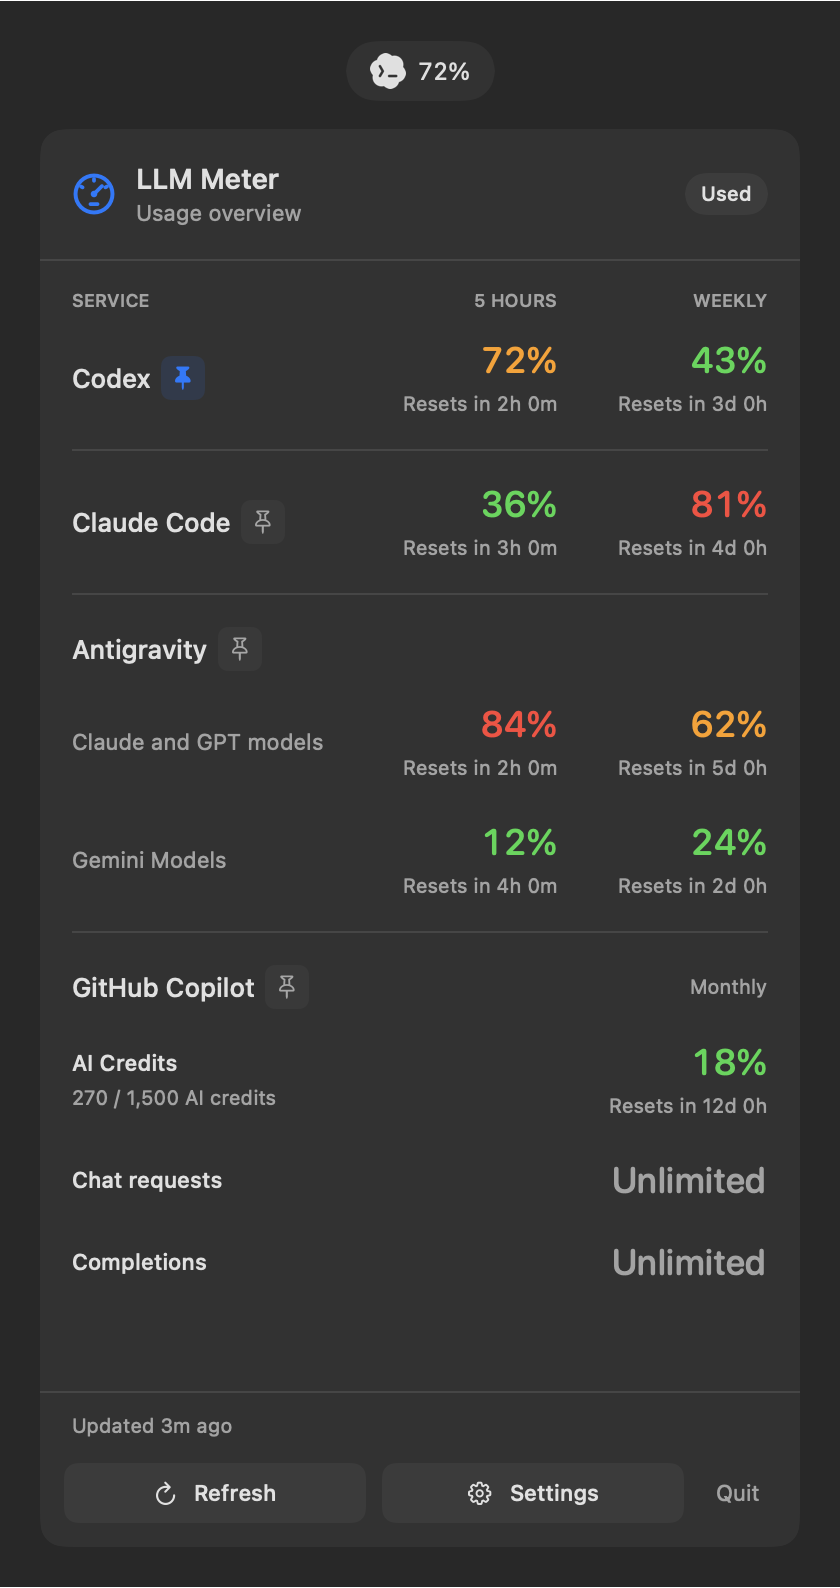
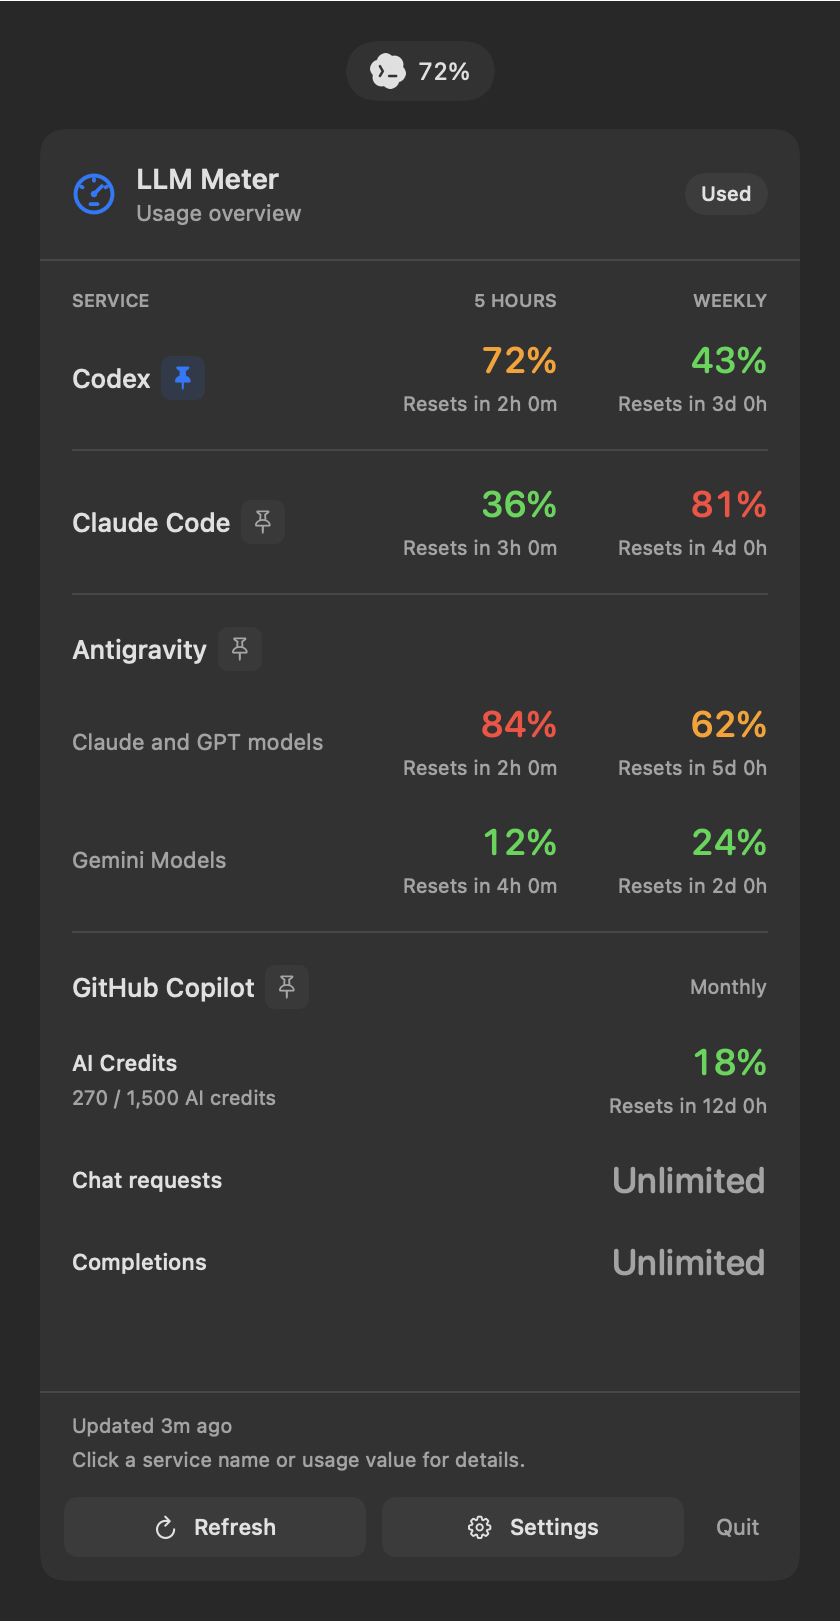
fix: replace oversized usage tooltips with scrollable details

diff --git a/Sources/LLMMeterApp/Views.swift b/Sources/LLMMeterApp/Views.swift
@@ -7,8 +7,20 @@ struct UsagePanel: View {
   @ObservedObject var store: AppStore
   var maximumContentHeight: () -> CGFloat
   var openSettings: () -> Void
+  @State private var detailProvider: ProviderID?
 
   var body: some View {
+    if let detailProvider {
+      UsageDetailsView(
+        store: store, provider: detailProvider,
+        maximumContentHeight: maximumContentHeight
+      ) { self.detailProvider = nil }
+    } else {
+      overview
+    }
+  }
+
+  private var overview: some View {
     VStack(spacing: 0) {
       HStack(spacing: 10) {
         Image(nsImage: MenuBarController.icon(size: 22))
@@ -69,6 +81,10 @@ struct UsagePanel: View {
         .frame(maxWidth: .infinity, alignment: .leading)
         .padding(.horizontal, 16).padding(.top, 10)
         .help(store.panelUpdateDetails)
+      Text(L10n.text("Click a service name or usage value for details."))
+        .font(.system(size: 10)).foregroundStyle(.secondary)
+        .frame(maxWidth: .infinity, alignment: .leading)
+        .padding(.horizontal, 16).padding(.top, 4)
       HStack(spacing: 8) {
         action(
           store.refreshing ? L10n.text("Refreshing…") : L10n.text("Refresh"),
@@ -130,7 +146,7 @@ struct UsagePanel: View {
               .frame(maxWidth: .infinity, alignment: .leading)
             window(.antigravity, period: .fiveHours, scope: scope)
             window(.antigravity, period: .weekly, scope: scope)
-          }.padding(.vertical, 10).help(store.tooltip(.antigravity))
+          }.padding(.vertical, 10).help(store.hoverSummary(.antigravity))
         }
       } else {
         ForEach(store.antigravityModels) { metric in
@@ -143,13 +159,15 @@ struct UsagePanel: View {
             }
             Spacer()
             VStack(alignment: .trailing, spacing: 5) {
-              value(store.modelLabel(metric), tone: store.tone(.antigravity, metric: metric))
+              value(
+                store.modelLabel(metric), tone: store.tone(.antigravity, metric: metric),
+                provider: .antigravity)
               Text(UsageDisplay.resetCountdown(metric.resetAt, now: store.now)).font(
                 .system(size: 10)
               )
               .foregroundStyle(.secondary)
             }
-          }.padding(.vertical, 10).help(store.tooltip(.antigravity))
+          }.padding(.vertical, 10).help(store.hoverSummary(.antigravity))
         }
       }
     }
@@ -177,7 +195,7 @@ struct UsagePanel: View {
           VStack(alignment: .trailing, spacing: 5) {
             value(
               store.metricLabel(.copilot, metric: metric),
-              tone: store.tone(.copilot, metric: metric))
+              tone: store.tone(.copilot, metric: metric), provider: .copilot)
             if !metric.unlimited {
               Text(UsageDisplay.resetCountdown(metric.resetAt, now: store.now)).font(
                 .system(size: 10)
@@ -185,7 +203,7 @@ struct UsagePanel: View {
               .foregroundStyle(.secondary)
             }
           }
-        }.padding(.vertical, 10).help(store.tooltip(.copilot))
+        }.padding(.vertical, 10).help(store.hoverSummary(.copilot))
       }
     }
   }
@@ -193,8 +211,13 @@ struct UsagePanel: View {
   private func providerHeading(_ id: ProviderID) -> some View {
     let selected = store.settings.showUsage && store.settings.selectedProvider == id
     return HStack(spacing: 5) {
-      Text(id.name).font(.system(size: 13, weight: .medium)).fixedSize()
-        .help(store.tooltip(id))
+      Button {
+        detailProvider = id
+      } label: {
+        Text(id.name).font(.system(size: 13, weight: .medium)).fixedSize()
+      }.buttonStyle(.plain)
+        .help(store.hoverSummary(id))
+        .accessibilityLabel(L10n.format("View %@ details", id.name))
       Button {
         store.showProviderInMenuBar(id)
       } label: {
@@ -215,9 +238,15 @@ struct UsagePanel: View {
     }
   }
 
-  private func value(_ label: String, tone: UsageTone) -> some View {
-    Text(label).font(.system(size: 18, weight: .medium, design: .rounded)).monospacedDigit()
-      .foregroundStyle(usageColor(tone))
+  private func value(_ label: String, tone: UsageTone, provider: ProviderID) -> some View {
+    Button {
+      detailProvider = provider
+    } label: {
+      Text(label).font(.system(size: 18, weight: .medium, design: .rounded)).monospacedDigit()
+        .foregroundStyle(usageColor(tone))
+    }.buttonStyle(.plain).help(L10n.text("Click for full details"))
+      .accessibilityLabel(L10n.format("View %@ details", provider.name))
+      .accessibilityValue(label)
   }
 
   private func usageColor(_ tone: UsageTone) -> Color {
@@ -233,12 +262,12 @@ struct UsagePanel: View {
     VStack(alignment: .trailing, spacing: 5) {
       value(
         store.label(id, period: period, scope: scope),
-        tone: store.tone(id, metric: store.metric(id, period: period, scope: scope)))
+        tone: store.tone(id, metric: store.metric(id, period: period, scope: scope)), provider: id)
       Text(store.resetLabel(id, period: period, scope: scope)).font(.system(size: 10))
         .monospacedDigit().foregroundStyle(.secondary)
     }.frame(width: 105, alignment: .trailing)
-      .help(store.tooltip(id))
-      .accessibilityElement(children: .ignore)
+      .help(store.hoverSummary(id))
+      .accessibilityElement(children: .contain)
       .accessibilityLabel(
         "\(id.name), \(period == .fiveHours ? L10n.text("5 hours") : L10n.text("Weekly")), \(store.label(id, period: period, scope: scope)), \(store.resetLabel(id, period: period, scope: scope))"
       )
@@ -249,6 +278,44 @@ struct UsagePanel: View {
       Label(text, systemImage: symbol).font(.system(size: 11, weight: .medium))
         .frame(maxWidth: .infinity).padding(.vertical, 8).contentShape(Rectangle())
     }.buttonStyle(PanelActionStyle())
+  }
+}
+
+/// Full details stay inside the screen-positioned popover, with wrapping and scrolling.
+struct UsageDetailsView: View {
+  @ObservedObject var store: AppStore
+  let provider: ProviderID
+  var maximumContentHeight: () -> CGFloat
+  var back: () -> Void
+
+  var body: some View {
+    VStack(spacing: 0) {
+      HStack(spacing: 10) {
+        Button(action: back) {
+          Label(L10n.text("Back"), systemImage: "chevron.left")
+        }.buttonStyle(.plain)
+        Spacer()
+        VStack(alignment: .trailing, spacing: 3) {
+          Text(provider.name).font(.headline)
+          Text(L10n.text("Usage details")).font(.caption).foregroundStyle(.secondary)
+        }
+      }.padding(16)
+      Divider()
+      ScrollView {
+        Text(store.detailsText(provider)).font(.system(size: 12))
+          .textSelection(.enabled).fixedSize(horizontal: false, vertical: true)
+          .frame(maxWidth: .infinity, alignment: .leading).padding(16)
+      }.frame(height: min(520, maximumContentHeight()))
+      Divider()
+      HStack {
+        Text(store.updateLabel(provider)).font(.caption).foregroundStyle(.secondary)
+        Spacer()
+        Button(L10n.text("Refresh")) { store.refresh(provider) }
+          .disabled(
+            store.states[provider]?.refreshing == true
+              || store.settings.services.first(where: { $0.provider == provider })?.enabled != true)
+      }.padding(12)
+    }.frame(width: 380)
   }
 }
 
@@ -351,7 +418,7 @@ struct SettingsView: View {
                   store.editService(service.provider) { $0.sourcePath = "" }
                 }
               }
-              Text(store.tooltip(service.provider)).font(.caption).textSelection(.enabled)
+              Text(store.detailsText(service.provider)).font(.caption).textSelection(.enabled)
               Divider()
             }
           }

diff --git a/Tests/LLMMeterAppTests/UsageDetailsTests.swift b/Tests/LLMMeterAppTests/UsageDetailsTests.swift
@@ -1,0 +1,53 @@
+import AppKit
+import Foundation
+import LLMMeterCore
+import SwiftUI
+import Testing
+
+@testable import LLMMeterApp
+
+@Test @MainActor func longDetailsStayBoundedAndCanScrollToTheLastMetric() async throws {
+  let directory = FileManager.default.temporaryDirectory.appendingPathComponent(UUID().uuidString)
+  defer { try? FileManager.default.removeItem(at: directory) }
+  let now = Date()
+  let metrics = (0..<60).map { index in
+    UsageMetric(
+      id: "model-\(index)", name: "Fixture model \(index)", period: .other,
+      scope: index == 0 ? "pool:Fixture group" : nil,
+      usedPercent: 42, resetAt: now.addingTimeInterval(1800), readAt: now)
+  }
+  let snapshot = UsageSnapshot(
+    provider: .antigravity, accountID: "fixture", accountLabel: "Demo account",
+    metrics: metrics, readAt: now)
+  let store = AppStore.screenshotPreview(
+    storage: LocalStorage(directory: directory), snapshots: [snapshot], now: now)
+  #expect(store.detailsText(.antigravity).contains("Fixture model 59"))
+  #expect(store.detailsText(.antigravity).contains("Fixture group"))
+  #expect(!store.hoverSummary(.antigravity).contains("Fixture model"))
+  #expect(store.hoverSummary(.antigravity).split(separator: "\n").count <= 3)
+  _ = NSApplication.shared
+  let host = NSHostingView(
+    rootView: UsageDetailsView(
+      store: store, provider: .antigravity,
+      maximumContentHeight: { 260 }, back: {}
+    ).environment(\.colorScheme, .light))
+  let size = host.fittingSize
+  #expect(size.width == 380)
+  #expect(size.height < 400)
+  let window = NSWindow(
+    contentRect: NSRect(origin: .zero, size: size), styleMask: .borderless,
+    backing: .buffered, defer: false)
+  window.contentView = host
+  window.orderFront(nil)
+  defer { window.orderOut(nil) }
+  try await Task.sleep(for: .milliseconds(100))
+  host.layoutSubtreeIfNeeded()
+  func scrollViews(_ view: NSView) -> [NSScrollView] {
+    (view as? NSScrollView).map { [$0] } ?? view.subviews.flatMap(scrollViews)
+  }
+  let scroll = try #require(scrollViews(host).first)
+  let document = try #require(scroll.documentView)
+  #expect(document.bounds.height > scroll.contentView.bounds.height)
+  document.scroll(NSPoint(x: 0, y: document.bounds.maxY))
+  #expect(document.visibleRect.maxY >= document.bounds.maxY - 1)
+}

diff --git a/Sources/LLMMeterApp/main.swift b/Sources/LLMMeterApp/main.swift
@@ -17,7 +17,7 @@ final class MenuBarController: NSObject {
     item.button?.target = self
     item.button?.action = #selector(toggle)
     popover.behavior = .transient
-    popover.contentViewController = NSHostingController(
+    let hosting = NSHostingController(
       rootView: UsagePanel(
         store: store,
         maximumContentHeight: { [weak self] in
@@ -25,9 +25,11 @@ final class MenuBarController: NSObject {
             self?.item.button?.window?.screen?.visibleFrame.height
             ?? NSScreen.main?.visibleFrame.height ?? 900
           // Reserve space for the header, footer, and popover margins.
-          return max(160, min(700, screenHeight - 180))
+          return max(160, min(700, screenHeight - 200))
         }
       ) { [weak self] in self?.showSettings() })
+    hosting.sizingOptions.insert(.preferredContentSize)
+    popover.contentViewController = hosting
     store.objectWillChange.sink { [weak self] in
       Task { @MainActor in self?.render() }
     }.store(in: &subscriptions)
@@ -41,7 +43,7 @@ final class MenuBarController: NSObject {
     item.button?.font = .monospacedDigitSystemFont(ofSize: 12, weight: .regular)
     item.button?.toolTip =
       store.settings.showUsage
-      ? store.tooltip(store.settings.selectedProvider)
+      ? store.menuBarLabel + "\n" + L10n.text("Click to view usage")
       : L10n.text("LLM Meter · Click to view usage")
     item.button?.setAccessibilityLabel(store.settings.showUsage ? store.menuBarLabel : "LLM Meter")
   }
@@ -184,7 +186,8 @@ if let index = arguments.firstIndex(of: "--export-screenshot"),
   arguments.indices.contains(index + 1)
 {
   try ScreenshotExporter.export(
-    to: URL(fileURLWithPath: arguments[index + 1]), dark: arguments.contains("--dark"))
+    to: URL(fileURLWithPath: arguments[index + 1]), dark: arguments.contains("--dark"),
+    details: arguments.contains("--details"))
 } else if arguments.contains("--diagnose") {
   Task {
     let provider = ProviderRegistry()

diff --git a/Sources/LLMMeterApp/AppStore.swift b/Sources/LLMMeterApp/AppStore.swift
@@ -337,7 +337,13 @@ final class AppStore: ObservableObject {
   var menuBarLabel: String {
     settings.showUsage ? "\(settings.selectedProvider.name) \(menuBarValue)" : "LLM Meter"
   }
-  func tooltip(_ id: ProviderID) -> String {
+  func hoverSummary(_ id: ProviderID) -> String {
+    [
+      id.name, serviceStatusLabel(id) ?? updateLabel(id),
+      L10n.text("Click for full details"),
+    ].joined(separator: "\n")
+  }
+  func detailsText(_ id: ProviderID) -> String {
     guard let state = states[id] else { return L10n.text("Not read yet") }
     var lines = [id.name]
     if settings.services.first(where: { $0.provider == id })?.enabled == false {
@@ -352,13 +358,18 @@ final class AppStore: ObservableObject {
       )
       if let plan = snapshot.plan { lines.append(L10n.format("Plan: %@", plan)) }
       for metric in snapshot.metrics {
+        var name = L10n.text(metric.name)
+        if let scope = metric.scope, scope.hasPrefix("pool:") {
+          let group = String(scope.dropFirst(5))
+          if !metric.name.hasPrefix(group) { name = "\(group) · \(name)" }
+        }
         let value =
           metric.percent(remaining: settings.showRemaining).map { String(format: "%.1f%%", $0) }
           ?? L10n.text("Unknown")
         lines.append(
           metric.unlimited
-            ? "\(L10n.text(metric.name)): \(L10n.text("Unlimited"))"
-            : "\(L10n.text(metric.name)): \(value) \(settings.showRemaining ? L10n.text("remaining") : L10n.text("used"))"
+            ? "\(name): \(L10n.text("Unlimited"))"
+            : "\(name): \(value) \(settings.showRemaining ? L10n.text("remaining") : L10n.text("used"))"
         )
         if metric.unit != nil { lines.append(countLabel(metric)) }
         if let reset = metric.resetAt {

diff --git a/Sources/LLMMeterApp/ScreenshotExporter.swift b/Sources/LLMMeterApp/ScreenshotExporter.swift
@@ -4,7 +4,7 @@ import SwiftUI
 
 @MainActor
 enum ScreenshotExporter {
-  static func export(to output: URL, dark: Bool = false) throws {
+  static func export(to output: URL, dark: Bool = false, details: Bool = false) throws {
     // Render the actual native view with fictional data and isolated storage.
     // Do not start scheduling, query providers, or read the user's settings.
     let directory = FileManager.default.temporaryDirectory.appendingPathComponent(UUID().uuidString)
@@ -75,8 +75,15 @@ enum ScreenshotExporter {
           Text(store.menuBarValue).font(.system(size: 12)).monospacedDigit()
         }.padding(.horizontal, 12).padding(.vertical, 6)
           .background(Color(nsColor: .windowBackgroundColor), in: Capsule())
-        UsagePanel(store: store, maximumContentHeight: { 700 }, openSettings: {})
-          .background(Color(nsColor: .windowBackgroundColor))
+        Group {
+          if details {
+            UsageDetailsView(
+              store: store, provider: .antigravity,
+              maximumContentHeight: { 520 }, back: {})
+          } else {
+            UsagePanel(store: store, maximumContentHeight: { 700 }, openSettings: {})
+          }
+        }.background(Color(nsColor: .windowBackgroundColor))
           .clipShape(RoundedRectangle(cornerRadius: 12))
       }.padding(20).background(Color(nsColor: .underPageBackgroundColor))
         .environment(\.colorScheme, dark ? .dark : .light))

diff --git a/Sources/LLMMeterCore/Localization.swift b/Sources/LLMMeterCore/Localization.swift
@@ -252,6 +252,12 @@ public enum L10n {
     "Could not save %@. Check folder permissions.": "无法保存 %@。请检查文件夹权限。",
     "The configured %@ executable is unavailable.": "配置的 %@ 可执行文件不可用。",
     "%@ was not found. Choose its executable in Settings.": "未找到 %@。请在设置中选择其可执行文件。",
+    "Click for full details": "点击查看完整详情",
+    "Click a service name or usage value for details.": "点击服务名称或用量查看详情。",
+    "View %@ details": "查看 %@ 详情",
+    "Back": "返回",
+    "Usage details": "用量详情",
+    "Click to view usage": "点击查看用量",
   ]
 }
 

diff --git a/docs/development.md b/docs/development.md
@@ -138,3 +138,22 @@ Run `make screenshots` to rebuild the light and dark previews in `docs/images/`.
 `ci.yml` runs strict formatting and core tests. `package.yml` builds and verifies the arm64 app on pull requests and main, and can be dispatched manually. A push to `main` also publishes a GitHub Release whose tag is the build date plus the commit's short revision in `Asia/Shanghai` time, such as `v2026.10.07-3e5e7de`; the app's `CFBundleShortVersionString` carries the same value and `CFBundleVersion` the numeric stamp. Releases attach the ZIP and its SHA-256 checksum, and a re-run of the same commit replaces those assets rather than duplicating the release. Packaging no longer triggers on `v*` tags. No credential secrets are required. Before public distribution, configure Developer ID signing and notarization, including stapling and Gatekeeper validation.
 
 The minimum deployment target is macOS 13; execution on an actual macOS 13 machine and Developer ID signing/notarization remain release checks. Automatic refresh currently uses a timer; immediate network-recovery notifications are a follow-up improvement.
+
+
+### Full service details
+
+Long quota listings must not be put in AppKit tooltips, which cannot scroll and can
+extend offscreen. `hoverSummary` contains only the service, status, and navigation
+hint. Clicking a service heading or usage value switches the existing popover to
+`UsageDetailsView`: 380 points wide, with a wrapping/selectable scroll view capped at
+520 points or the screen-derived content limit, plus Back and targeted Refresh.
+A footer hint and short hover hint expose this action; VoiceOver buttons name the
+service and retain the percentage as their value. The hosting controller explicitly
+tracks preferred content size when changing views. The view observes AppStore so
+readings continue to update while open. Settings retain full text in their existing
+scroll view. Menu bar hover text also stays short.
+
+The native regression uses 60 fictional metrics to verify bounded fitting size,
+full text retention, short hover text, and scrolling to the document's bottom.
+Export a fictional details preview with `--export-screenshot PATH --details`; no
+credentials or provider reads are used.

diff --git a/README.md b/README.md
@@ -9,6 +9,8 @@ A native macOS menu bar utility for LLM usage and remaining allowances. Requires
 
 Click the meter icon or usage label to see a compact **5h / Weekly** list. Settings controls which services appear, their order, used versus remaining values, and whether the menu bar shows the default icon or one selected service icon followed by its usage percentage.
 
+Click a service name or usage value to open its full details in a bounded, scrollable panel. Text wraps, can be selected, and updates during refresh. Use **Back** to return to the overview; hover tips contain only a short summary. The footer also explains this shortcut.
+
 Click the small pin beside a provider's name to show that provider in the menu bar immediately. A filled blue pin marks the current selection; an outlined gray pin marks other providers. Switching selects the provider's first available metric; clicking the current provider preserves its selected metric.
 
 Each usage window includes a reset countdown. The footer shows the latest successful update among visible enabled services; hover over it for each service's update age. Hover over a row for exact reset and reading times, masked account details, plan, and errors. Unknown reset times stay unknown; a passed reset shows “Awaiting update” until the source confirms a new allowance. Reset credits are not displayed by the current adapters.
@@ -98,5 +100,12 @@ The default mark uses a full circular gauge with a larger footprint in the same
 18-point slot. Template rendering follows the menu bar's light/dark appearance.
 
 ![Previous and current default icon beside service icons](docs/images/menu-bar-icons.png)
+
+</details>
+
+<details>
+<summary>Scrollable service details</summary>
+
+![Service details with wrapped text and scrolling](docs/images/usage-details.png)
 
 </details>
